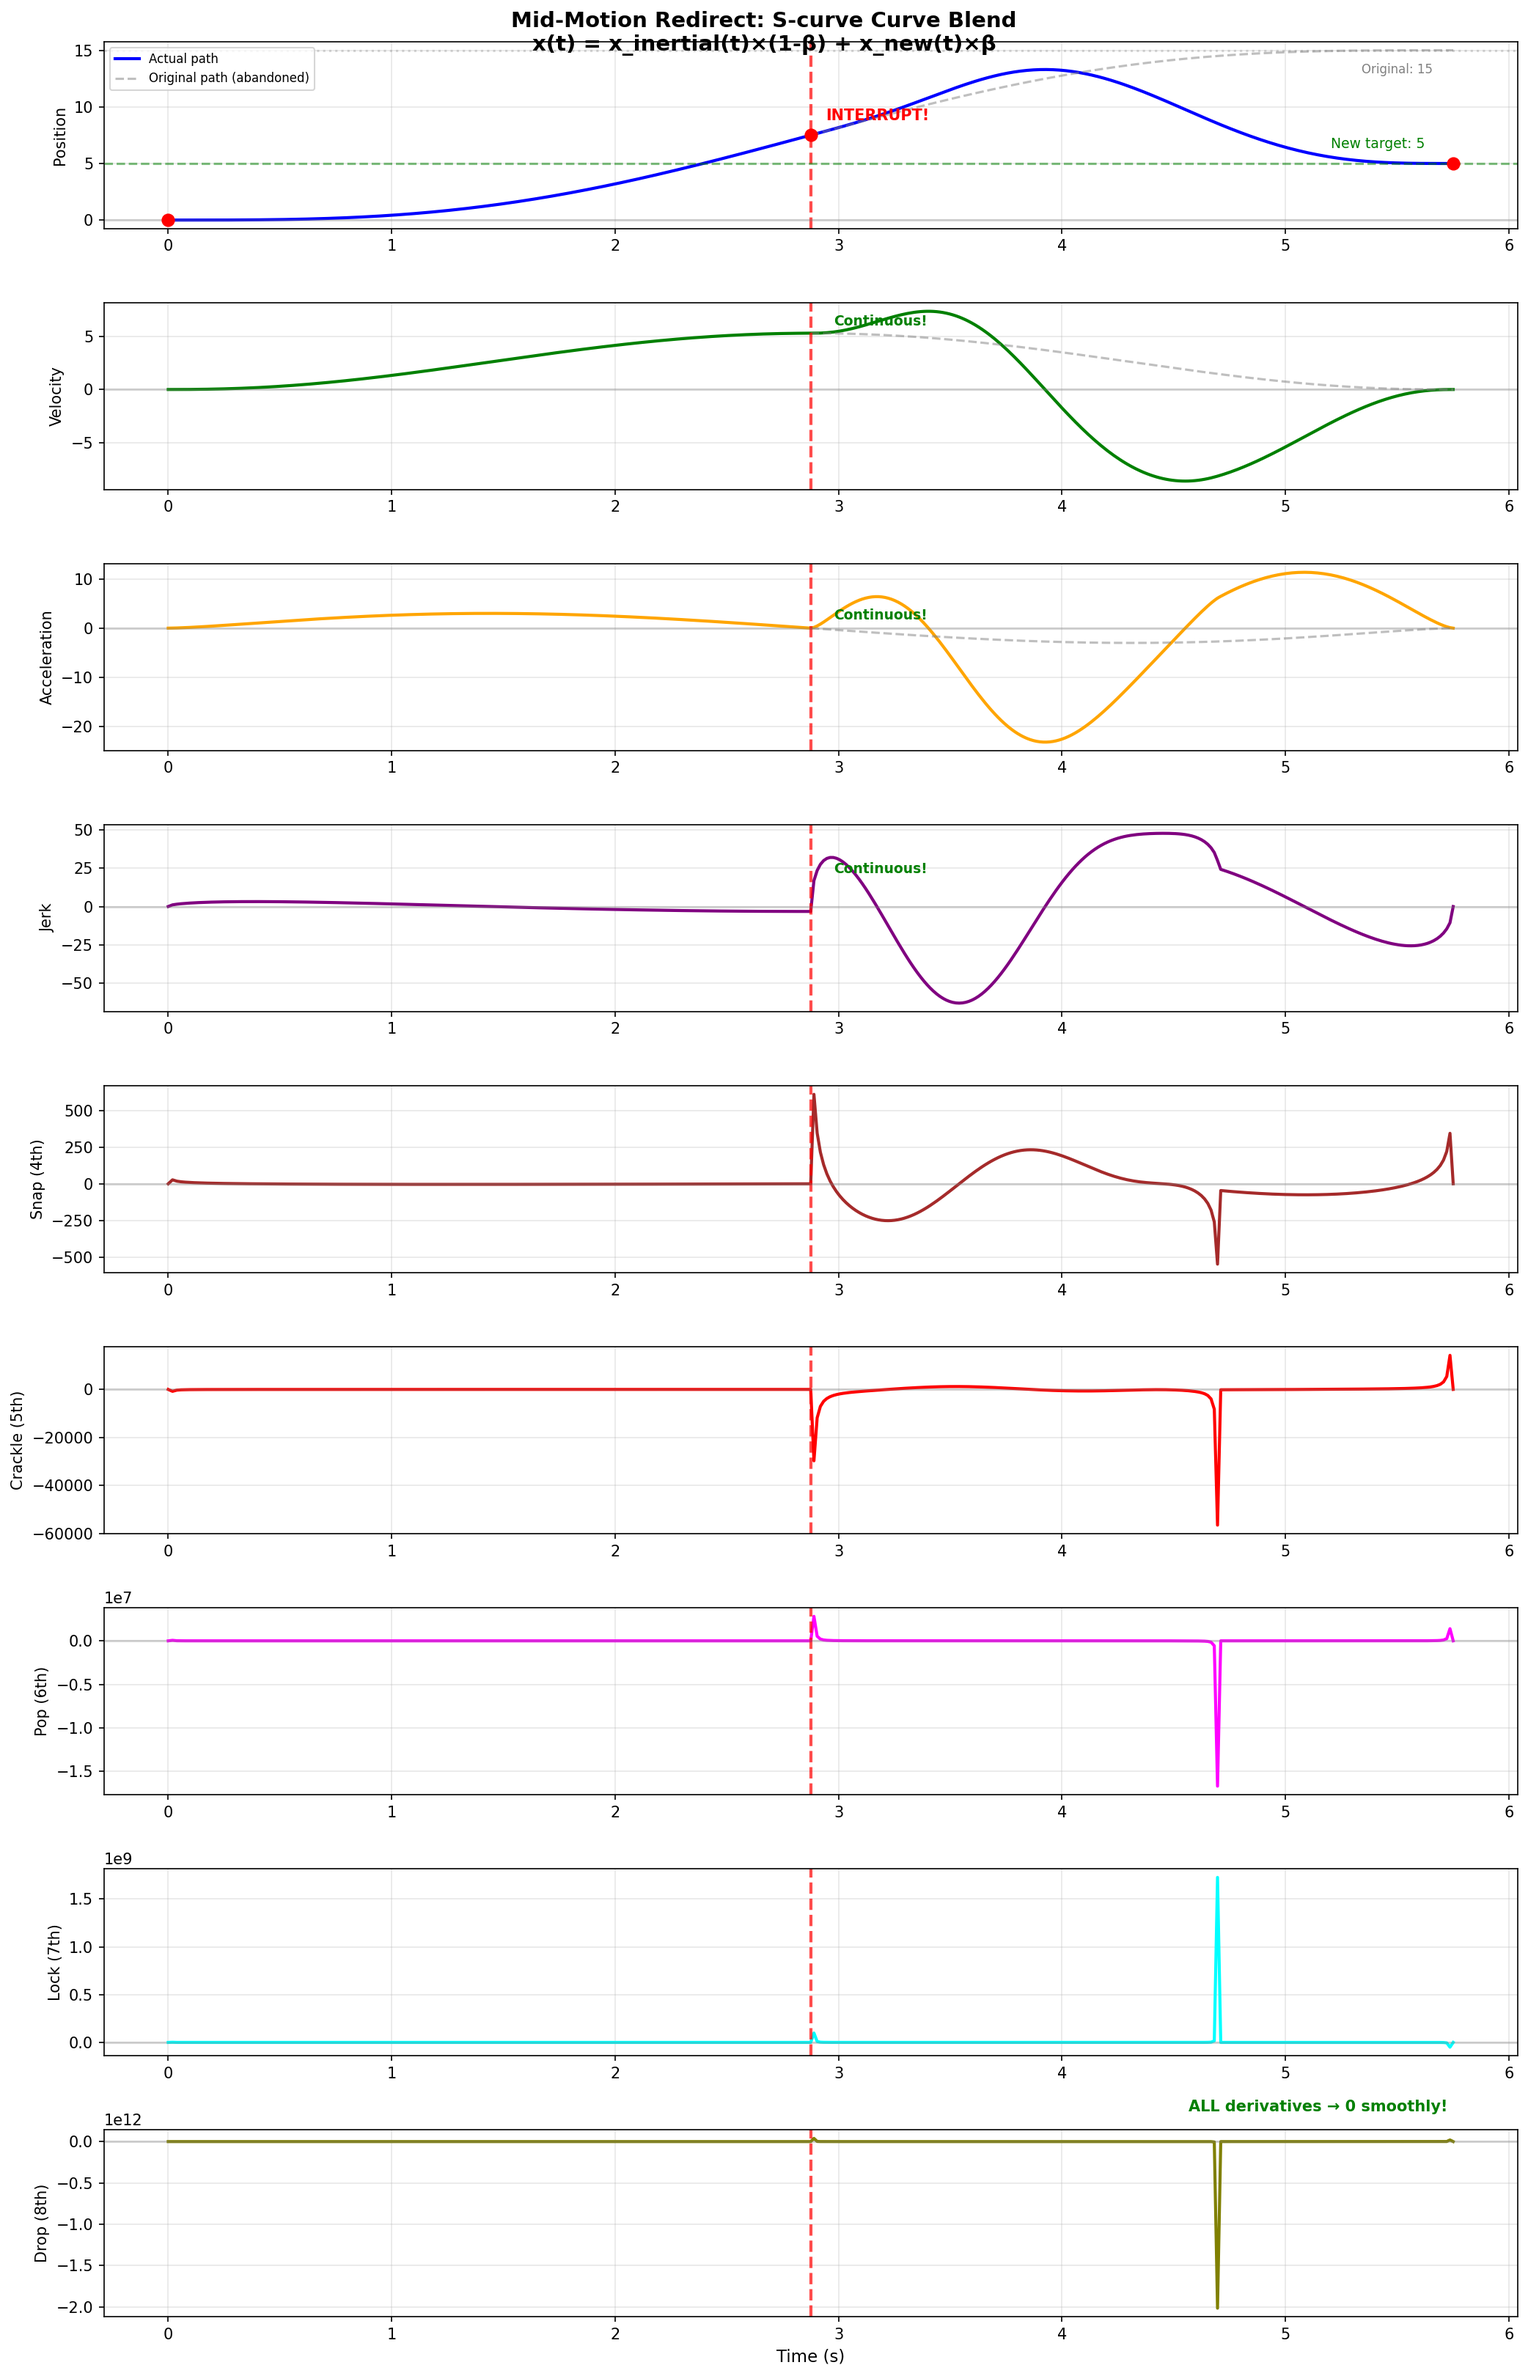
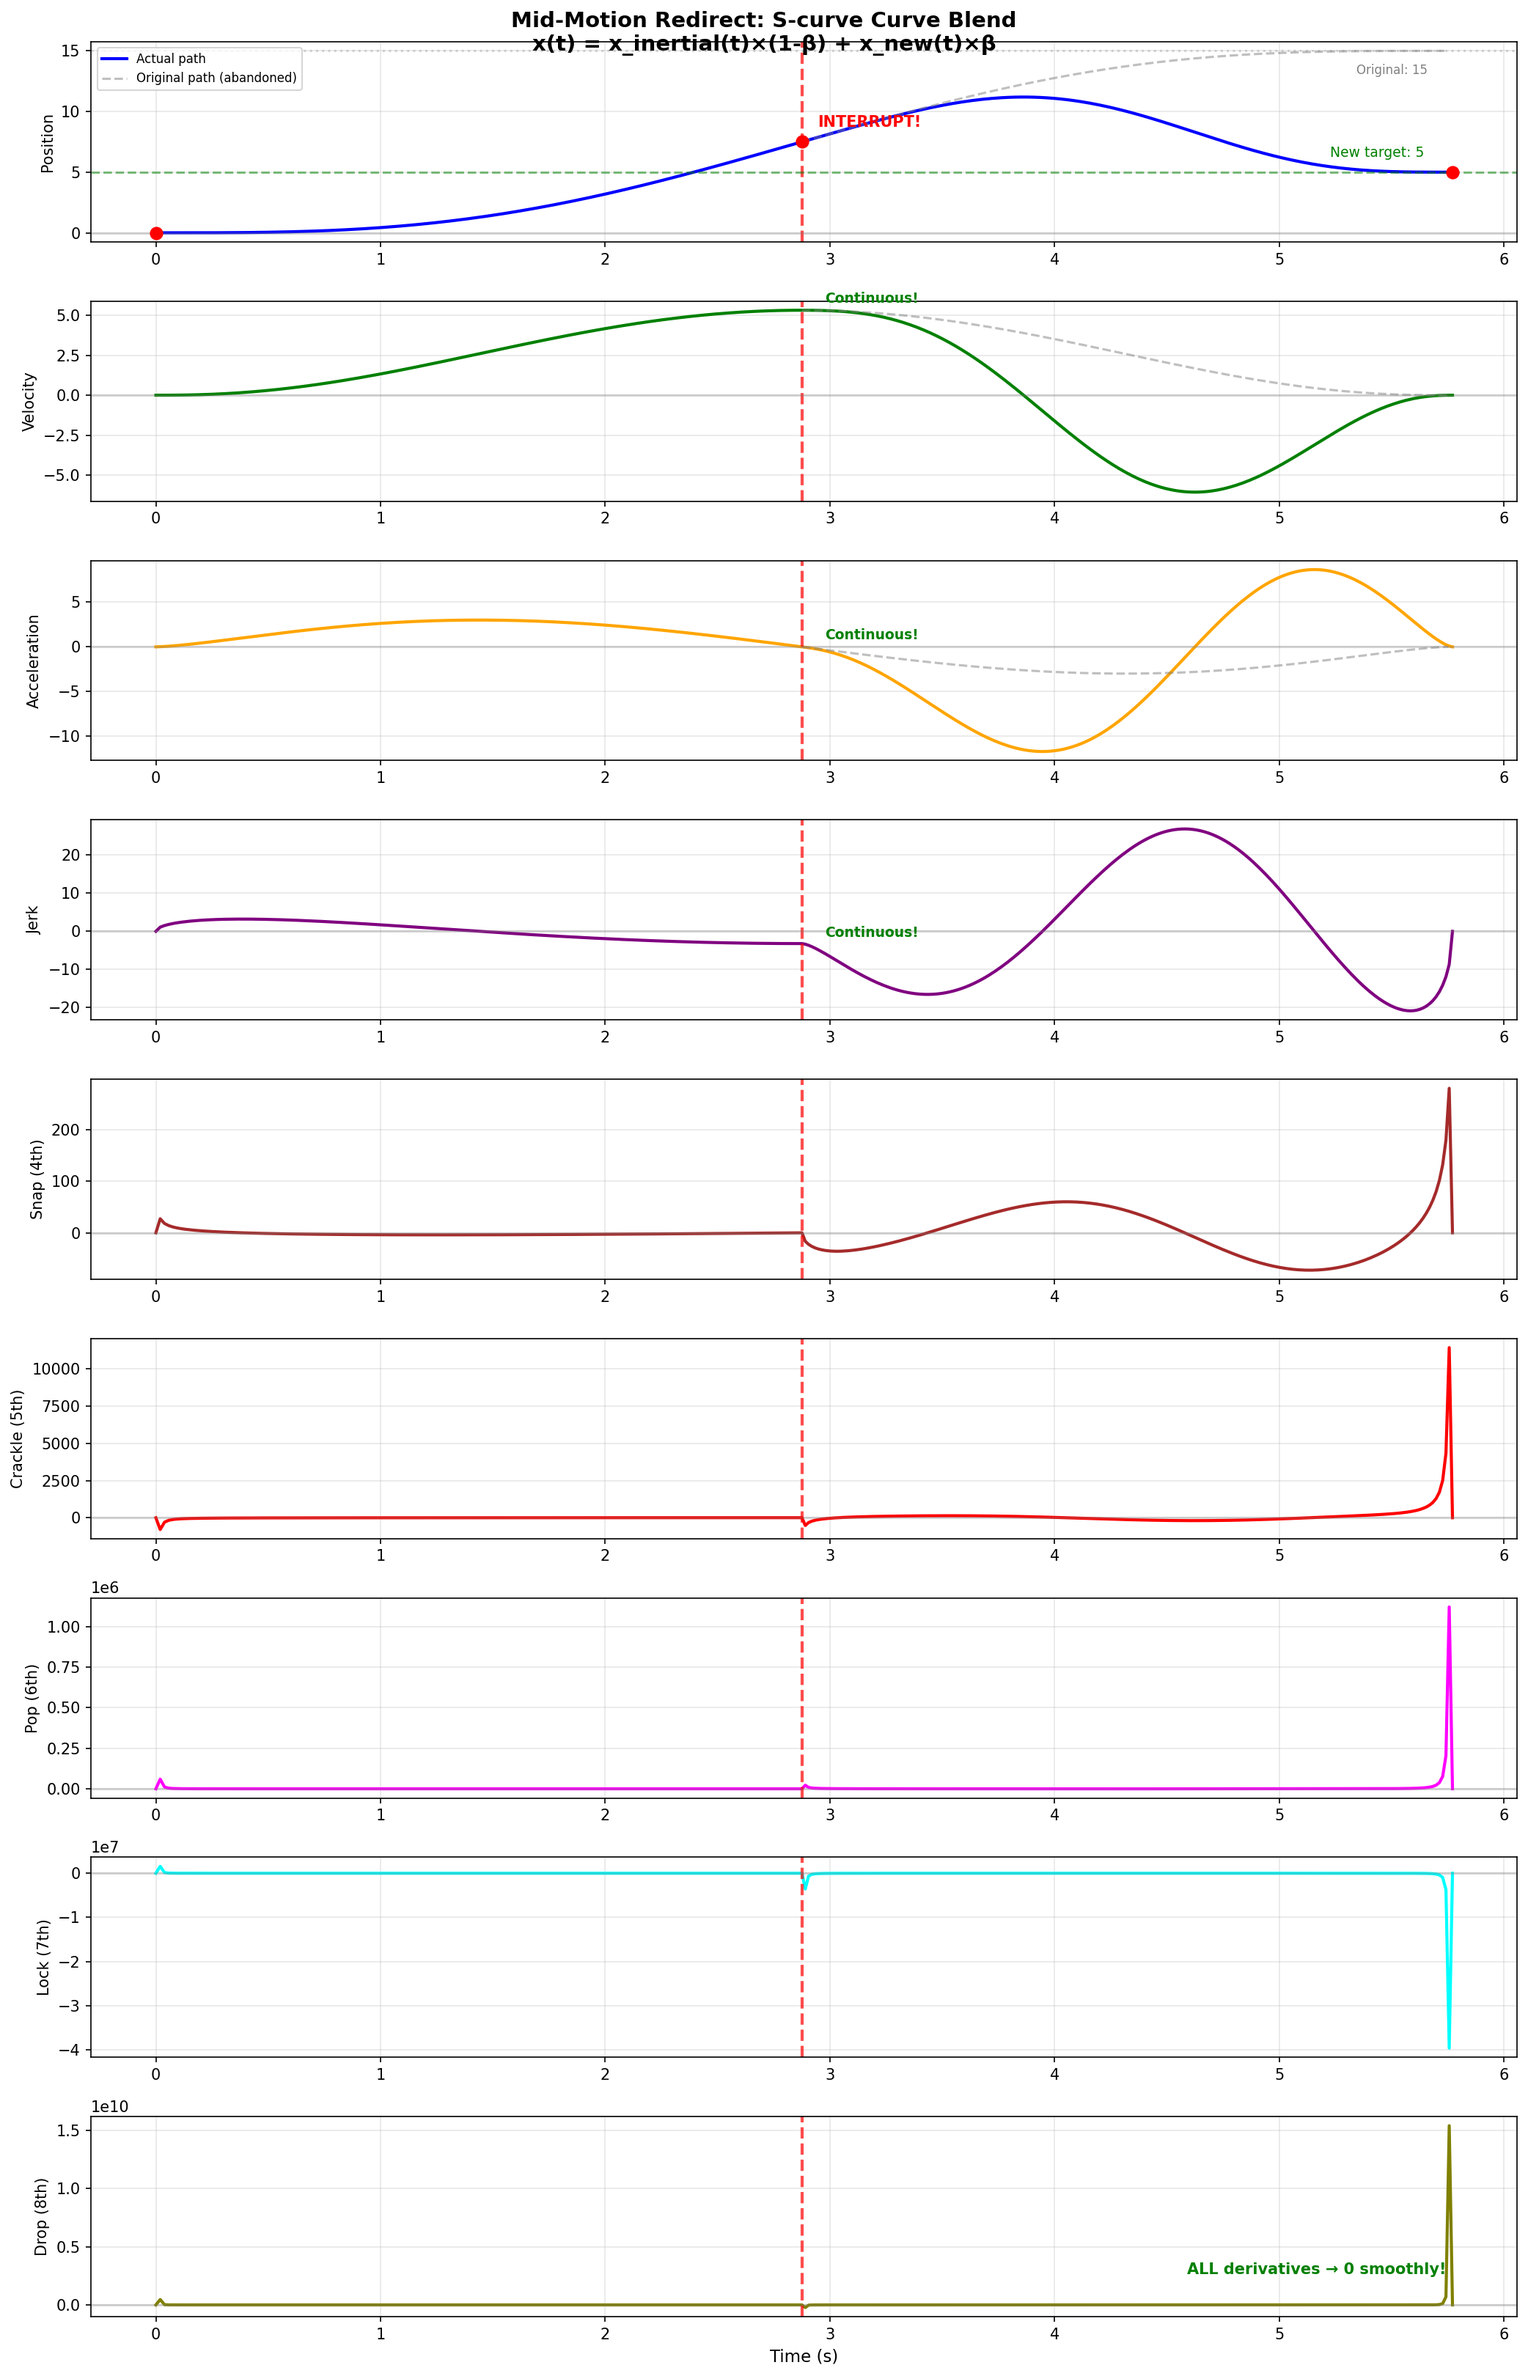
Fix velocity continuity by keeping x_orig at natural pace
- x_orig now runs at its original tau_dot to preserve v(0) at interrupt
- After T_remaining_orig, x_orig stays at x_orig_end with all derivatives = 0
- Simplified _find_optimal_T to just ensure T >= max(T_remaining_orig, T_new)
- Removed acceleration constraint (trade-off for preserving velocity continuity)
- x_new and β are stretched to duration T for smooth blending

diff --git a/src/scurvebeta/generalized.py b/src/scurvebeta/generalized.py
@@ -1263,65 +1263,52 @@ class BetaBlendMotion:
 
     def _find_optimal_T(self, T_initial):
         """
-        Find minimum T that respects velocity and acceleration bounds.
+        Find minimum T that ensures finite derivatives.
 
-        Strategy: Iteratively increase T until v <= Vmax and a <= Amax.
+        x_orig runs at natural pace (preserving velocity at t=0), so its
+        acceleration is fixed. We just ensure T >= T_remaining_orig and T_new,
+        and check that velocity stays within bounds.
 
-        Note: Higher derivatives (jerk, snap, etc.) are not constrained
-        because blended motions inherently have larger values due to
-        Leibniz product rule. Constraining them would require very long T.
+        Note: Acceleration may exceed robotAmax during blending because
+        x_orig's natural acceleration + blend terms. This is the trade-off
+        for preserving velocity continuity.
         """
         T = T_initial
         delta_x = abs(self.x_target - self.x0)
 
-        # Minimum T from hard constraints
-        T_min_v = delta_x / self.robotVmax if self.robotVmax < float('inf') else 0.1
-        T_min_a = sqrt(delta_x / self.robotAmax) if self.robotAmax < float('inf') and delta_x > 0 else T_min_v
-        T = max(T, T_min_v, T_min_a, 0.5)
+        # T must be at least as long as both curves need
+        T = max(T, self.T_remaining_orig, self.T_new, 0.5)
 
-        # Iteratively find T that satisfies v and a constraints
-        for iteration in range(20):
+        # Iteratively check that velocity is reasonable
+        for iteration in range(10):
             self.T = T
             t_samples = np.linspace(0, T, 100)
 
-            max_violation = 1.0
-
-            # Check velocity
             try:
                 v_samples = self.velocity(t_samples)
                 if np.any(~np.isfinite(v_samples)):
                     T *= 1.5
                     continue
-                max_v = np.max(np.abs(v_samples))
-                if self.robotVmax < float('inf'):
-                    violation = max_v / self.robotVmax
-                    max_violation = max(max_violation, violation)
-            except Exception:
-                T *= 1.5
-                continue
 
-            # Check acceleration
-            try:
+                max_v = np.max(np.abs(v_samples))
+                if self.robotVmax < float('inf') and max_v > self.robotVmax * 1.01:
+                    T *= (max_v / self.robotVmax) ** 0.5
+                    continue
+
+                # Check derivatives are finite
                 a_samples = self.acceleration(t_samples)
                 if np.any(~np.isfinite(a_samples)):
                     T *= 1.5
                     continue
-                max_a = np.max(np.abs(a_samples))
-                if self.robotAmax < float('inf'):
-                    violation = max_a / self.robotAmax
-                    max_violation = max(max_violation, violation)
+
+                break
             except Exception:
                 T *= 1.5
                 continue
 
-            if max_violation <= 1.01:
+            if T > 30:
+                T = 30
                 break
-            else:
-                # Scale T by square root of violation (a scales as 1/T²)
-                T *= max_violation ** 0.5
-                if T > 60:
-                    T = 60
-                    break
 
         self.T = T
         return T
@@ -1597,14 +1584,11 @@ class BetaBlendMotion:
         tau_end = plan['tau_end']
         original_T = plan['T']
 
-        # Both modes: stretch x_orig to reach tau_end at t=T
-        # This ensures x_orig's acceleration stays below limit,
-        # leaving headroom for the blending/shift terms
-        tau_remaining = tau_end - self.tau_current
-        tau_dot = tau_remaining / self.T if self.T > 0 else 0
+        # x_orig runs at its NATURAL pace to preserve velocity at t=0!
+        original_tau_dot = (tau_end - tau_start) / original_T if original_T > 0 else 0
 
-        # τ(t) = τ_current + tau_dot × t
-        tau = self.tau_current + tau_dot * t
+        # τ(t) = τ_current + original_tau_dot × t
+        tau = self.tau_current + original_tau_dot * t
         tau = np.clip(tau, min(tau_start, tau_end), max(tau_start, tau_end))
 
         # Scaling factor for position
@@ -1619,7 +1603,14 @@ class BetaBlendMotion:
         # x_orig^(k) = S × f^(k)(τ) × τ_dot^k
         derivs = []
         for k in range(max_order + 1):
-            derivs.append(S * f_derivs[k] * (tau_dot ** k) + (offset if k == 0 else 0))
+            val = S * f_derivs[k] * (original_tau_dot ** k) + (offset if k == 0 else 0)
+            # After T_remaining_orig, x_orig is at rest at x_orig_end
+            past_end = t > self.T_remaining_orig
+            if k == 0:
+                val = np.where(past_end, self.x_orig_end, val)
+            else:
+                val = np.where(past_end, 0.0, val)
+            derivs.append(val)
 
         return derivs
 
